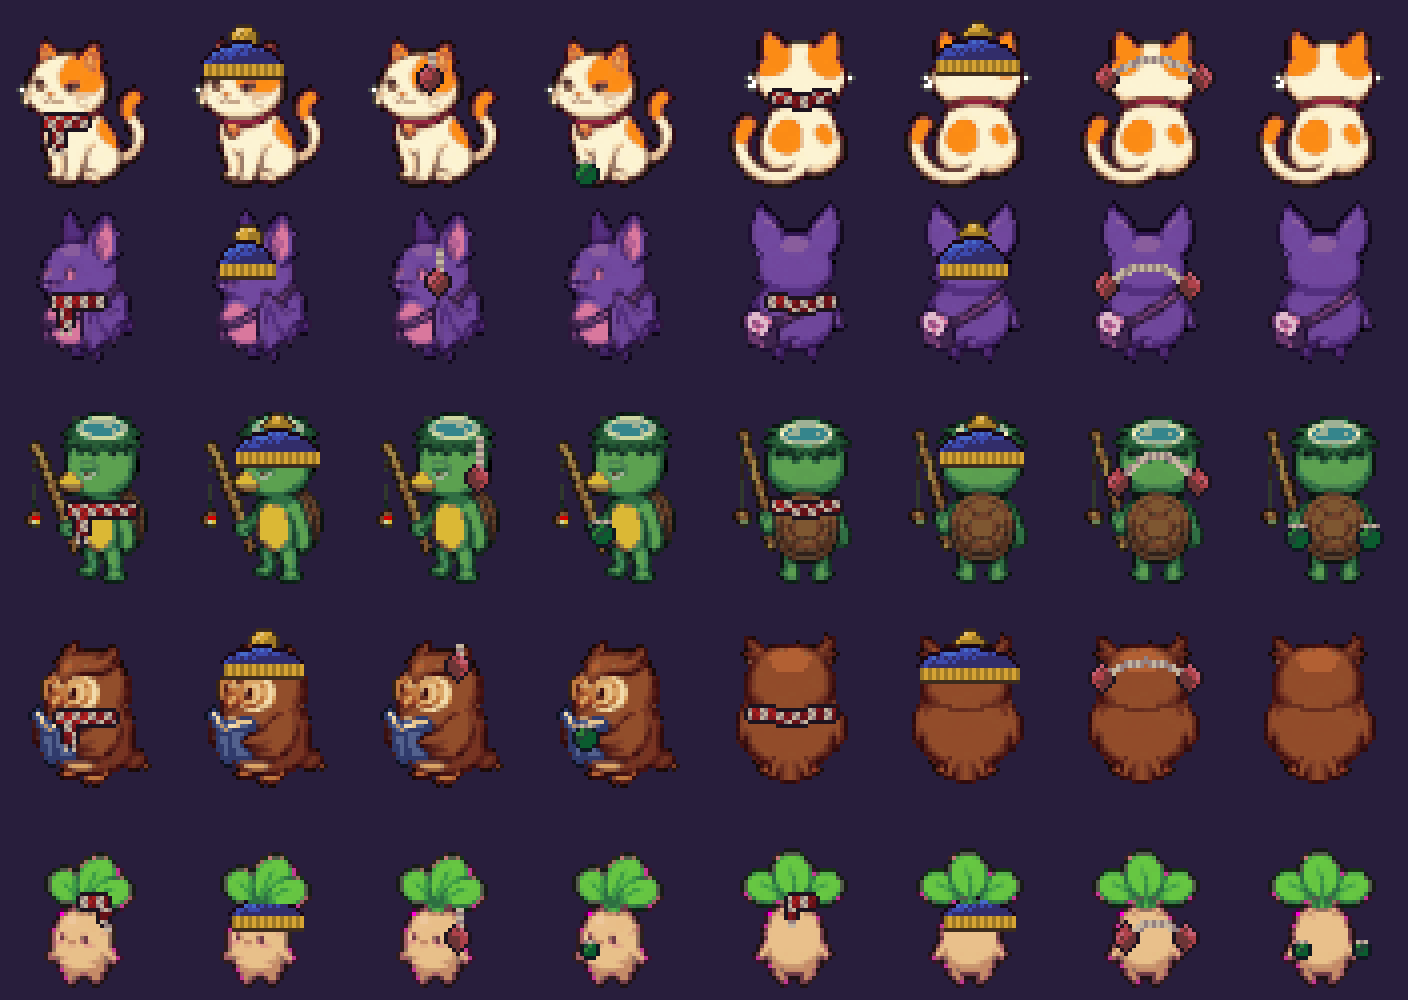
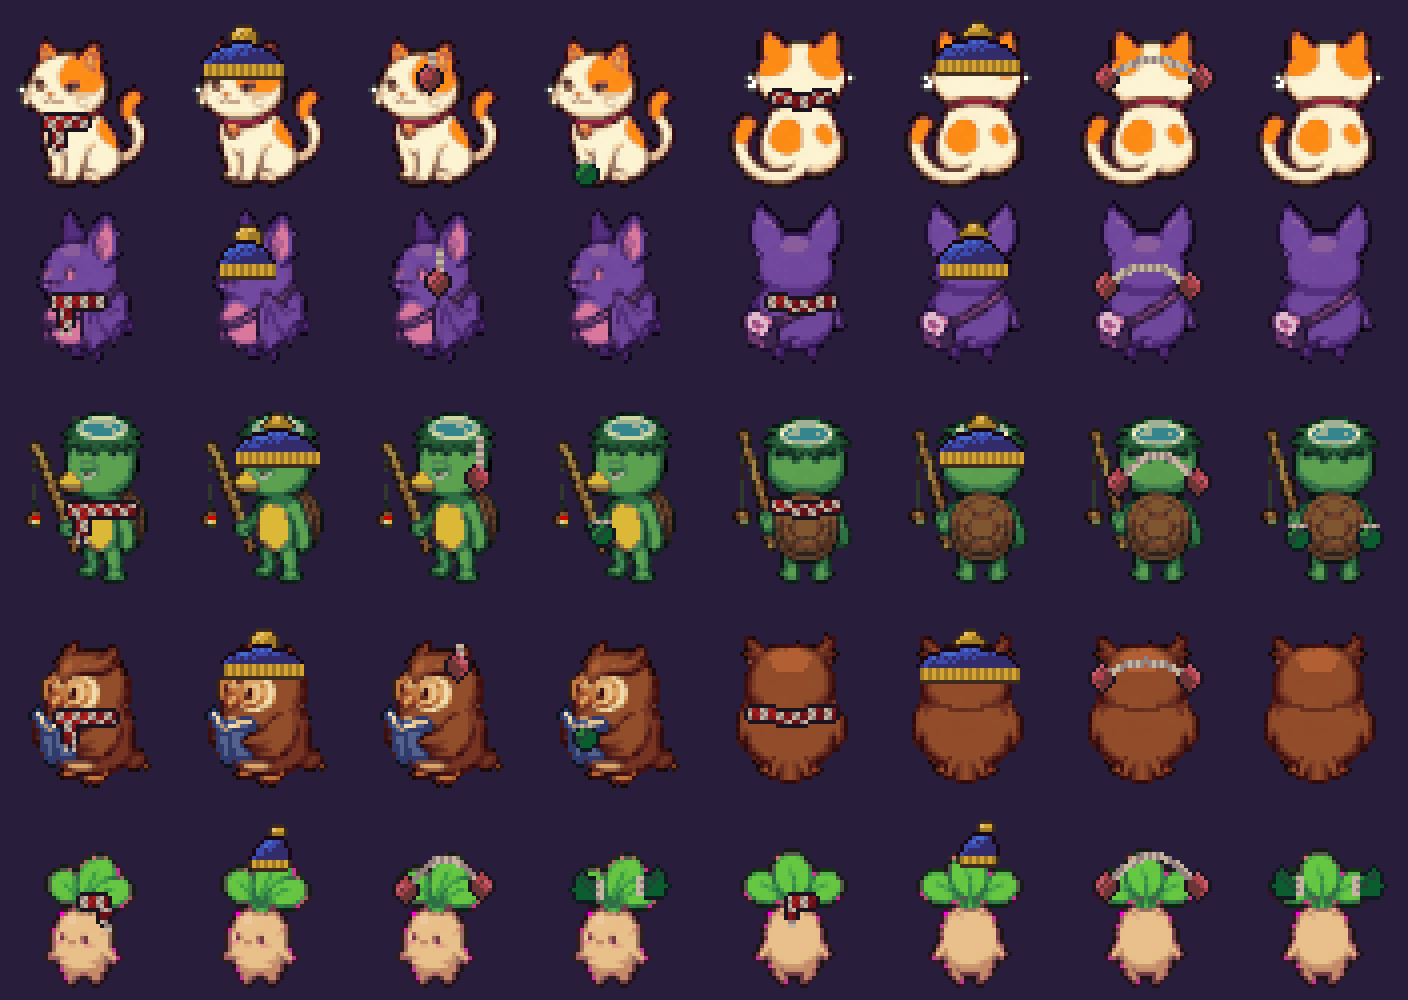
맨디 뜨개 옷: 모자는 가운데 잎 끝에 걸치고, 귀마개 · 장갑은 양쪽 잎 끝에 씌우기
Claude-Session: https://claude.ai/code/session_01HhJ2NoNCjk5kaA3GWL7UDs

diff --git a/tools/iso/lpc/knit_npc.py b/tools/iso/lpc/knit_npc.py
@@ -136,10 +136,10 @@ SP_ = {
  'npc3': {'': dict(hat=(24, 39, 24, 30), muff=[(21, 27), (42, 27)], neck=(41, 24, 39), hands=[(24, 46), (38, 46)]),
           '_side': dict(hat=(23, 40, 24, 30), muff=[(36, 28)], neck=(41, 25, 37), hands=[(24, 46)]),
           '_back': dict(hat=(21, 43, 24, 31), muff=[(21, 31), (43, 31)], mufftop=24, neck=(40, 22, 41), hands=[])},
- # 맨디: 목도리는 가운데 잎줄기에 두르고 끝이 팔랑 · 모자는 몸 윗부분(머리)에 쓰고 잎은 위로 · 귀마개는 눈 옆 · 장갑은 작은 손
- 'npc4': {'': dict(hat=(27, 41, 37, 43), muff=[(27, 46), (42, 46)], mufftop=39, leafneck=(37, 31, 37), hands=[(27, 49), (42, 49)], gr=1.7, leaves=True),
-          '_side': dict(hat=(25, 40, 37, 43), muff=[(36, 46)], mufftop=39, leafneck=(37, 30, 36), hands=[(25, 49)], gr=1.7, leaves=True),
-          '_back': dict(hat=(27, 42, 37, 43), muff=[(27, 46), (42, 46)], mufftop=39, leafneck=(37, 31, 37), hands=[(27, 49), (42, 49)], gr=1.7, leaves=True)},
+ # 맨디: 잎이 손 · 머리 — 목도리는 가운데 잎줄기 · 모자는 가운데 잎 끝에 걸치고 · 귀마개 솜방울과 장갑은 양쪽 잎 끝에 씌워요 (leafy = 왼쪽 잎 끝, 가운데 잎 꼭대기, 오른쪽 잎 끝)
+ 'npc4': {'': dict(hat=(27, 41, 37, 43), leafy=((24, 33), (34, 26), (45, 33)), leafneck=(37, 31, 37), hands=[(27, 49), (42, 49)]),
+          '_side': dict(hat=(25, 40, 37, 43), leafy=((23, 34), (33, 26), (42, 33)), leafneck=(37, 30, 36), hands=[(25, 49)]),
+          '_back': dict(hat=(27, 42, 37, 43), leafy=((22, 33), (34, 25), (45, 33)), leafneck=(37, 31, 37), hands=[(27, 49), (42, 49)])},
  'npc5': {'': dict(hat=(24, 40, 22, 31), muff=[(24, 33), (40, 33)], neck=(40, 26, 38), hands=[(18, 49), (45, 49)], strip=31, mufftop=14),   # 스트로: 털모자 쓸 땐 밀짚모자 벗고 · 귀마개는 밀짚모자 위로
           '_side': dict(hat=(25, 39, 22, 31), muff=[(35, 33)], neck=(40, 27, 37), hands=[(26, 49)], strip=31, mufftop=15),
           '_back': dict(hat=(24, 40, 22, 31), muff=[(24, 33), (40, 33)], neck=(40, 26, 38), hands=[(19, 48), (45, 48)], strip=31, mufftop=14)},
@@ -169,6 +169,7 @@ class SpriteView:
                 dome += [(x, y) for x in range(int(cx - w), int(cx + w) + 1)]
         return dome, band, cx, top
     def hat(s, a, b):
+        if 'leafy' in s.p: return s._leaf_hat(a, b)
         base0 = s.base
         if s.bare is not None and s.base is s.orig: s.base = s.stripped
         try: return s._hat(a, b)
@@ -197,6 +198,7 @@ class SpriteView:
                         if c[3]: O[x, y] = c
         return out
     def muff(s, a, b):
+        if 'leafy' in s.p: return s._leaf_muff(a, b)
         base0 = s.base
         try: return s._muff(a, b)
         finally: s.base = base0
@@ -248,7 +250,37 @@ class SpriteView:
         fx = max(x for x, _ in flap); fy = max(y for _, y in flap) + 1
         for x in (fx - 1, fx): P[x, fy] = rb[2] + (255,); P[x, fy + 1] = rb[3] + (255,)   # 술
         return over(s.base, lay)
+    def _leaf_hat(s, a, b):
+        """가운데 잎 끝에 쏙 걸친 작은 방울 모자 (살짝 기울어져요)"""
+        (_, _), (cx, cy), _ = s.p['leafy']; lay = Image.new('RGBA', (64, 64), (0, 0, 0, 0)); P = lay.load(); ra, rb = RAMP[YARN[a]], RAMP[YARN[b]]
+        dome = [(x, y) for y in range(cy - 4, cy + 1) for x in range(64) if ((x - cx - (cy - y) * .25) / 4.2) ** 2 + ((y - cy) / 4.6) ** 2 <= 1]
+        lpc_fill(lay, dome, ra); band = [(x, y) for y in (cy + 1, cy + 2) for x in range(cx - 4, cx + 5)]
+        for x, y in band: P[x, y] = (rb[3] if x % 2 else rb[2]) + (255,)
+        for x in range(cx - 4, cx + 5): P[x, cy + 3] = rb[0] + (255,)
+        for y in (cy + 1, cy + 2): P[cx - 5, y] = rb[0] + (255,); P[cx + 5, y] = rb[0] + (255,)
+        pom = [(x, y) for y in range(64) for x in range(64) if ((x - cx - 2) / 1.8) ** 2 + ((y - (cy - 6)) / 1.6) ** 2 <= 1 and not P[x, y][3]]; lpc_fill(lay, pom, rb)
+        return over(s.base, lay)
+    def _leaf_mitt(s, lay, cx, cy, ra, rb, side):
+        """잎 끝에 씌운 털장갑 (엄지 하나 · 잎줄기 쪽에 고무단)"""
+        P = lay.load(); body = [(x, y) for y in range(64) for x in range(64) if ((x - cx) / 3.2) ** 2 + ((y - cy) / 2.6) ** 2 <= 1]
+        th = [(x, y) for y in range(64) for x in range(64) if ((x - (cx + side * 1)) / 1.3) ** 2 + ((y - (cy - 3)) / 1.3) ** 2 <= 1]
+        lpc_fill(lay, body + th, ra, light=(-side, -1)); inner = cx - side * 3
+        for y in range(cy - 2, cy + 3): P[inner, y] = rb[2 + (y % 2)] + (255,); P[inner - side, y] = rb[3] + (255,)
+    def _leaf_muff(s, a, b):
+        """양쪽 잎 끝에 솜방울 · 띠는 가운데 잎 꼭대기 위로"""
+        (lx, ly), (cx, cy), (rx, ry) = s.p['leafy']; lay = Image.new('RGBA', (64, 64), (0, 0, 0, 0)); P = lay.load(); ra, rb = RAMP[YARN[a]], RAMP[YARN[b]]
+        for i in range(61):
+            t = i / 60; x = round((1 - t) ** 2 * lx + 2 * (1 - t) * t * cx + t * t * rx); y = round((1 - t) ** 2 * ly + 2 * (1 - t) * t * (cy - 8) + t * t * ry)
+            for dy in (0, 1): P[x, y + dy] = (rb[3] if (x + y) % 2 else rb[2]) + (255,)
+        for (px, py) in ((lx, ly), (rx, ry)):
+            puff = [(x, y) for y in range(64) for x in range(64) if ((x - px) / 2.6) ** 2 + ((y - py) / 3) ** 2 <= 1]
+            for q in puff: P[q] = (0, 0, 0, 0)
+            lpc_fill(lay, puff, ra, light=(-1 if px < 32 else 1, -1))
+        return over(s.base, lay)
     def gloves(s, a, b):
+        if 'leafy' in s.p:   # 맨디: 양쪽 잎에 장갑을 씌워요
+            (lx, ly), _, (rx, ry) = s.p['leafy']; lay = Image.new('RGBA', (64, 64), (0, 0, 0, 0)); ra, rb = RAMP[YARN[a]], RAMP[YARN[b]]
+            s._leaf_mitt(lay, lx + 1, ly, ra, rb, -1); s._leaf_mitt(lay, rx - 1, ry, ra, rb, 1); return over(s.base, lay)
         if not s.p['hands']: return over(s.base)
         lay = Image.new('RGBA', (64, 64), (0, 0, 0, 0)); P = lay.load(); ra, rb = RAMP[YARN[a]], RAMP[YARN[b]]
         for cx, cy in s.p['hands']:
@@ -260,7 +292,7 @@ NECK = {'npc0': 41, 'npc1': 41, 'npc2': 39, 'npc3': 42, 'npc4': 44, 'npc5': 37} 
 FB = '/tmp/claude-0/-home-user/d683bb50-b1f3-59a3-8e5f-5f21e64e8c5a/scratchpad/Galmuri11-Bold.ttf'
 F, F2, F3 = ImageFont.truetype(FB, 15), ImageFont.truetype(FB, 12), ImageFont.truetype(FB, 22)
 BG, PAN, INK, SUB, GOLD = (26, 18, 38), (37, 26, 54), (241, 233, 255), (184, 168, 216), (255, 233, 160)
-COLS = [('목도리', 'scarf', ('빨강', '하양')), ('방울 모자', 'hat', ('파랑', '노랑')), ('털 귀마개', 'muff', ('분홍', '하양')), ('손모아장갑', 'gloves', ('초록', '하양'))]
+COLS = [('목도리', 'scarf', ('빨강', '하양')), ('방울 모자', 'hat', ('파랑', '노랑')), ('털 귀마개', 'muff', ('분홍', '하양')), ('손모아장갑', 'gloves', ('주황', '하양'))]
 CW, RH = 120, 150; W_ = 150 + CW * 7 + 20; img = Image.new('RGB', (W_, 70 + RH * len(CAST) + 20), BG); d = ImageDraw.Draw(img)
 d.text((20, 14), 'NPC가 선물받은 뜨개 옷 (내 화면에서만 · 모자 칸은 방울 모자나 귀마개 하나 · 여러 개면 매일 바꿔 써요)', font=F2, fill=(255, 184, 168))
 for c, (nm, _, _) in enumerate(COLS): d.text((150 + c * CW + 20, 48), nm, font=F2, fill=GOLD)
@@ -282,6 +314,6 @@ for r, (nm, who, body) in enumerate(CAST):
         else:   # 그림 NPC: 모자 먼저(스트로는 밀짚모자 벗고) → 목도리
             hb = V_.hat('파랑', '노랑'); V_.orig_keep = V_.orig; V_.base = hb; V_.B = hb.load(); V_.bare = None
             V_.base = V_.scarf('빨강', '하양'); V_.B = V_.base.load()
-        g = V_.gloves('초록', '하양')
+        g = V_.gloves('주황', '하양')
         cell(g if g is not None else V_.base, 4 + c, r); V_.base = keep; V_.B = keep.load()
 os.makedirs(OUTD, exist_ok=True); img.save(os.path.join(OUTD, 'knit_npc_preview.png')); print('ok')

diff --git a/tools/knit_mock/knit_story.md b/tools/knit_mock/knit_story.md
@@ -93,4 +93,4 @@
 - 방울 모자와 털 귀마개는 같은 모자 칸이라 둘 중 하나만 써요.
 - NPC가 같은 칸 뜨개를 여러 개 받으면 (예: 빨강 모자 · 파랑 모자 · 귀마개) 매일 자정에 그중 하나를 무작위로 골라 그날 하루 써요 (학생 · NPC · 날짜로 시드 고정이라 하루 동안은 같아요). 목도리 · 장갑도 여러 개면 똑같이 매일 바뀌어요.
 - 스트로는 털모자를 쓰는 날엔 밀짚모자를 벗고, 귀마개는 밀짚모자 위로 써요 (띠가 밀짚모자 꼭대기를 지나요).
-- 그림 NPC는 앞 · 옆 · 뒤마다 자리를 직접 잡았어요 (`knit_npc.py`의 SP_ 표): 나비 · 배트리는 모자를 귀 사이 정수리에 쓰고 귀마개는 머리 옆(뺨 위) · 캇파는 모자를 낮게, 옆모습 귀마개는 눈 뒤 · 아울라 뒷모습 모자는 넓고 낮게 · 맨디는 목도리를 가운데 잎줄기에 감고 끝이 몸 앞으로 늘어져요, 장갑은 작은 손에 작게 · 배트리 손 = 날개 끝 발톱 · 아울라 손 = 책 든 날개 끝.
+- 그림 NPC는 앞 · 옆 · 뒤마다 자리를 직접 잡았어요 (`knit_npc.py`의 SP_ 표): 나비 · 배트리는 모자를 귀 사이 정수리에 쓰고 귀마개는 머리 옆(뺨 위) · 캇파는 모자를 낮게, 옆모습 귀마개는 눈 뒤 · 아울라 뒷모습 모자는 넓고 낮게 · 맨디는 잎이 손 · 머리: 목도리는 가운데 잎줄기에 감고, 방울 모자는 가운데 잎 끝에 걸치고, 귀마개 솜방울과 손모아장갑은 양쪽 잎 끝에 씌워요 · 배트리 손 = 날개 끝 발톱 · 아울라 손 = 책 든 날개 끝.
